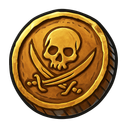
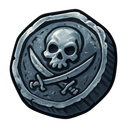
A silver doubloon, the shop's real sprites, and a round you can afford
WHY YOU COULD NOT BUY: 14 doubloons, and the smallest thing on the counter was a
pack of five at 40. The button was correctly disabled and said nothing about it —
so the answer to "is there a reason I can't buy?" was sitting in a CSS opacity.
Rounds are now sold singly as well as in fives, which is the right shape anyway
now that one round is spent per volley, and when even one is out of reach the row
says how much more is needed.

DOUBLOONS ARE NOT GOLD ANY MORE. The coin was drawn as "warm antique gold with
brass and amber tones" — historically right, and the reason a purse of doubloons
read as a purse of gold beside the game's actual gold coin. It is a piece of
eight now: tarnished silver, cold grey, blackened oxidation in the struck relief,
skull still on the face. It cannot be mistaken for gold at 16px.

THE DOUBLOON SHOP HAD ONE SPRITE FOR FIVE ITEMS. Every item on that counter is a
real consumable with its own painted art in mkt_consumable_sprite — and the shop
hard-coded the generic teal potion for all of them, so a 12,000-doubloon Elixir
of Renewal and a 75-doubloon Bottled Fury were the same bottle of mystery liquid.
It reads the sprite map now, threaded through decorate() like every other art
map. All five already had art; none needed drawing.

Also: the medallion wrapped onto a line of its own at phone width (the purse
carries margin-left:auto and the three of them were a few pixels too wide), and
[…]

diff --git a/src/lib/marketplace/sailing.js b/src/lib/marketplace/sailing.js
@@ -17,6 +17,7 @@ import { AMMO, AMMO_LIST, ammoById, COMBAT_TRACKS, shipProfile, foeProfile,
          gunsFor, accuracyFor, rakeFor, hullFor, armorFor, initBattleState, resolveVolley, sanitizeAim,
          SAILS_MAX, GUN_HP, MAX_ROUNDS, matchupOdds, hullGrade } from "@/lib/marketplace/ship-battle.js";
 import { ZONE_LIST, zonesOn, zoneKeyFromArt } from "@/lib/marketplace/ship-zones.js";
+import { consumableSpriteMap } from "@/lib/marketplace/consumable-sprites.js";
 import { FLEET, MAX_FLEET_RANK, fleetShip, fleetReward, fleetView, fleetArt, fleetCaptain, fleetRankForShip, fleetDeckOf } from "@/lib/marketplace/fleet.js";
 import { boatDeck } from "@/lib/marketplace/deck-lines.js";
 import { getSavedPorts, portsWithSaved } from "@/lib/marketplace/gun-ports-store.js";
@@ -967,7 +968,7 @@ function boardView(board) {
 // `buyerId` is passed explicitly rather than read off `row`: a member who has never opened Sailing has NO
 // mkt_sailing row, so `row` is null and `row?.buyer_id` is undefined — which used to fail the fishing gate and
 // erase the entire feature for them. Callers that only want `.status`/`.level` can still omit it.
-function decorate(row, chestArt = {}, bonusWaves = 0, raidSetBonus = 0, angling = 0, sky = null, buyerId = null, collections = []) {
+function decorate(row, chestArt = {}, bonusWaves = 0, raidSetBonus = 0, angling = 0, sky = null, buyerId = null, collections = [], consumableArt = {}) {
     const speedLevel = row?.speed_level || 0;
     const fortuneLevel = row?.luck_level || 0; // Fortune is stored in the legacy luck_level column
     const rarityLevel = row?.rarity_level || 0;
@@ -1052,7 +1053,7 @@ function decorate(row, chestArt = {}, bonusWaves = 0, raidSetBonus = 0, angling 
         })(),
         // SHIP BATTLES — the gun deck, the racks, the fleet ladder and the purse. Gated with raiding while the
         // rework is under construction; a member outside the allow-list gets null and renders nothing.
-        combat: raidsEnabled(buyerId) ? combatView(row, level) : null,
+        combat: raidsEnabled(buyerId) ? combatView(row, level, consumableArt) : null,
         voyageMs: voyageDurationMs(speedLevel, level),
         // Digging upgrade system (separate from the boat).
         digUpgrades: digUpgradesView(row),
@@ -1216,6 +1217,9 @@ export async function getSailingState(buyerId, skyKey = null) {
     // Pick the random horizon backdrop HERE (server-side) so it's baked into the first paint — the client no
     // longer flips from a default to the chosen one on load.
     const sky = SKY_BGS[Math.floor(Math.random() * SKY_BGS.length)];
+    // The Doubloon Shop sells real consumables, so it needs their real sprites. Fetched HERE, where
+    // awaiting is allowed, and handed to the view builder like every other art map.
+    const consumableArt = await consumableSpriteMap().catch(() => ({}));
     // The Corsair collection, fetched here where awaiting is allowed, then handed to the view builder.
     const collections = await (async () => {
         const [{ collectionsForFeature }, { getOwnedPieceIds: ownedPieces }] = await Promise.all([
@@ -1226,7 +1230,7 @@ export async function getSailingState(buyerId, skyKey = null) {
         // report every set as 0 collected.
         return collectionsForFeature("sea", await ownedPieces(buyerId).catch(() => []));
     })().catch(() => []);
-    return { ...decorate(row, chestArt, seaEff.bonusWaves, raidExtras.bonusRaids, seaEff.angling, null, buyerId, collections), gold: goldRow?.gold || 0, fleet, sky, sea };
+    return { ...decorate(row, chestArt, seaEff.bonusWaves, raidExtras.bonusRaids, seaEff.angling, null, buyerId, collections, consumableArt), gold: goldRow?.gold || 0, fleet, sky, sea };
 }
 
 export async function startVoyage(buyerId, optionId = "standard") {
@@ -1746,7 +1750,7 @@ const ammoStock = (row) => (row && typeof row.ammo === "object" && row.ammo) || 
 const ammoCount = (row, id) => (ammoById(id).basic ? Infinity : Number(ammoStock(row)[id]) || 0);
 
 // Everything the ship-battle screens read: the gun deck, what is in the racks, the ladder and the purse.
-function combatView(row, boatLevel) {
+function combatView(row, boatLevel, consumableArt = {}) {
     const gun = row?.gun_level || 0, gunnery = row?.gunnery_level || 0, hull = row?.hull_level || 0;
     const stock = ammoStock(row);
     const loaded = ammoById(row?.loadout || "round");
@@ -1804,6 +1808,10 @@ function combatView(row, boatLevel) {
         locker: LOCKER_LIST.map((l) => ({
             id: l.id, name: l.name, blurb: l.blurb, price: l.price, kind: l.kind, tier: l.tier || null,
             canAfford: (row?.doubloons || 0) >= l.price,
+            // ITS OWN PAINTED ART. Every one of these is a real consumable with a sprite in
+            // mkt_consumable_sprite, and the shop was drawing the generic teal potion for all five — so the
+            // counter showed the same bottle of mystery liquid five times, priced from 75 to 12,000.
+            art: (l.consumable && consumableArt[l.consumable]) || null,
         })),
         fleet: {
             depth, best: row?.fleet_best || 0, max: MAX_FLEET_RANK,

diff --git a/src/components/ShipYard.js b/src/components/ShipYard.js
@@ -106,10 +106,27 @@ function Round({ a, purse, busy, onLoad, onBuy }) {
                     <button type="button" className="sby-mini is-load" disabled={busy || out} onClick={() => onLoad(a.id)}>Load</button>
                 )}
                 {a.basic ? null : (
-                    <button type="button" className="sby-mini" disabled={busy || purse < a.price * 5}
-                        onClick={() => onBuy(a.id, 5)} title={`5 rounds for ${a.price * 5} doubloons`}>
-                        Buy 5 · {a.price * 5}<Dbl />
-                    </button>
+                    <>
+                        {/* BUY ONE. The smallest purchase on the counter was a pack of five, which at 40-70
+                            doubloons is several battles' pay — so a captain with a starting purse could not buy
+                            any ammunition at all, and the button just sat there greyed out. A round is spent
+                            per volley now, so a single one is a real thing to own. */}
+                        <div className="sby-buyrow">
+                            <button type="button" className="sby-mini" disabled={busy || purse < a.price}
+                                onClick={() => onBuy(a.id, 1)} title={`One round for ${a.price} doubloons`}>
+                                1 · {a.price}<Dbl />
+                            </button>
+                            <button type="button" className="sby-mini" disabled={busy || purse < a.price * 5}
+                                onClick={() => onBuy(a.id, 5)} title={`5 rounds for ${a.price * 5} doubloons`}>
+                                5 · {a.price * 5}<Dbl />
+                            </button>
+                        </div>
+                        {/* And SAY why, when neither is affordable. A dimmed button with no reason is the
+                            question this answered when it was asked out loud. */}
+                        {purse < a.price ? (
+                            <span className="sby-short">{a.price - purse} more needed</span>
+                        ) : null}
+                    </>
                 )}
             </div>
         </div>
@@ -207,7 +224,7 @@ export default function ShipYard({ combat, raid, gold, busy, tab, onTab, onAct }
                                             point at from here. */}
                                         {/* eslint-disable-next-line @next/next/no-img-element */}
                                         <img className="sby-lockerart" alt="" draggable="false"
-                                            src="/images/ui/potion.png" />
+                                            src={l.art || "/images/ui/potion.png"} />
                                         <span className="sby-lockerbody">
                                             <b>{l.name}</b>
                                             <em>{l.blurb}</em>
@@ -283,7 +300,12 @@ export default function ShipYard({ combat, raid, gold, busy, tab, onTab, onAct }
                         the bottom of the screen, under the thing you actually came here to press, not in a
                         dashed banner above it. */}
                     <a href="/marketplace/sailing/gun-lab" className="sby-gunlab">
-                        Gun placement — where cannons sit on each hull →
+                        <Icon name="GiCannon" className="sby-gunlab-ico" />
+                        <span>
+                            <b>Gun placement</b>
+                            <em>Set where the cannons sit on each hull</em>
+                        </span>
+                        <i aria-hidden="true">→</i>
                     </a>
                 </>
             ) : null}

diff --git a/src/app/globals.css b/src/app/globals.css
@@ -14162,3 +14162,31 @@ img.fish-reveal-art { display: block; width: 128px; height: 128px; object-fit: c
 .sby-founder-close:active { transform: translateY(2px); box-shadow: 0 1px 0 #b4611a; }
 @keyframes sbyFounderFade { from { opacity: 0; } to { opacity: 1; } }
 @keyframes sbyFounderPop { from { opacity: 0; transform: scale(.9) translateY(10px); } to { opacity: 1; transform: scale(1) translateY(0); } }
+
+/* THE HEADER STAYS ON ONE LINE. The medallion arrived after the purse, which carries margin-left:auto, and on a
+   390px phone the three of them totalled a few pixels too many — so the tribute wrapped onto a line of its own
+   and sat there looking like a stray avatar. The coin already says what the number is, so the word beside it is
+   the thing that gives way. */
+.sby-head { flex-wrap: nowrap; }
+.sby-head h3 { min-width: 0; }
+@media (max-width: 430px) {
+    .sby-purse em { display: none; }
+    .sby-founder { width: 38px; height: 38px; }
+}
+
+/* THE WORKSHOP DOOR, as a button rather than a dashed banner. It is a tool and it should look like a tool —
+   quiet, but built. */
+.sby-gunlab { display: grid; grid-template-columns: 26px 1fr auto; align-items: center; gap: 10px;
+    margin-top: 12px; padding: 10px 12px; border-radius: 12px; text-decoration: none; text-align: left;
+    background: linear-gradient(180deg, rgba(255,255,255,0.07), rgba(255,255,255,0.03));
+    border: 1px solid rgba(255,201,94,0.28); }
+.sby-gunlab:hover { background: linear-gradient(180deg, rgba(255,201,94,0.16), rgba(255,201,94,0.06));
+    border-color: rgba(255,201,94,0.5); }
+.sby-gunlab-ico { font-size: 1.4rem; color: #ffd28a; }
+.sby-gunlab b { display: block; font-size: 0.84rem; color: #ffd9a0; }
+.sby-gunlab em { display: block; font-style: normal; font-size: 0.7rem; color: #93a3b3; }
+.sby-gunlab i { font-style: normal; font-size: 1.1rem; color: #ffd28a; opacity: 0.7; }
+
+/* Buying a round: one or five, side by side, and a plain reason when neither is possible. */
+.sby-buyrow { display: flex; gap: 5px; }
+.sby-short { font-size: 0.64rem; font-weight: 800; color: #ff9c8a; text-align: right; }
